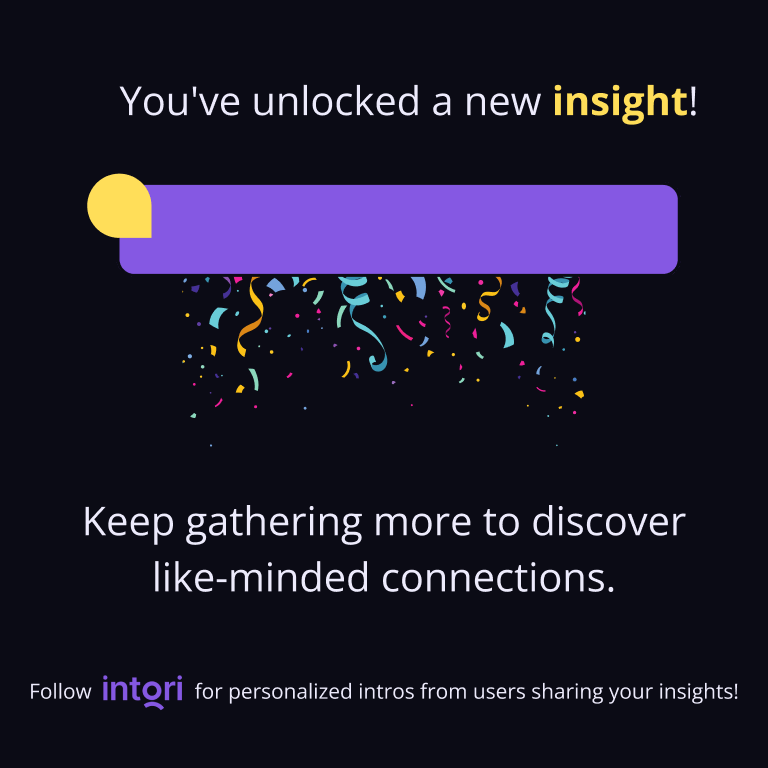
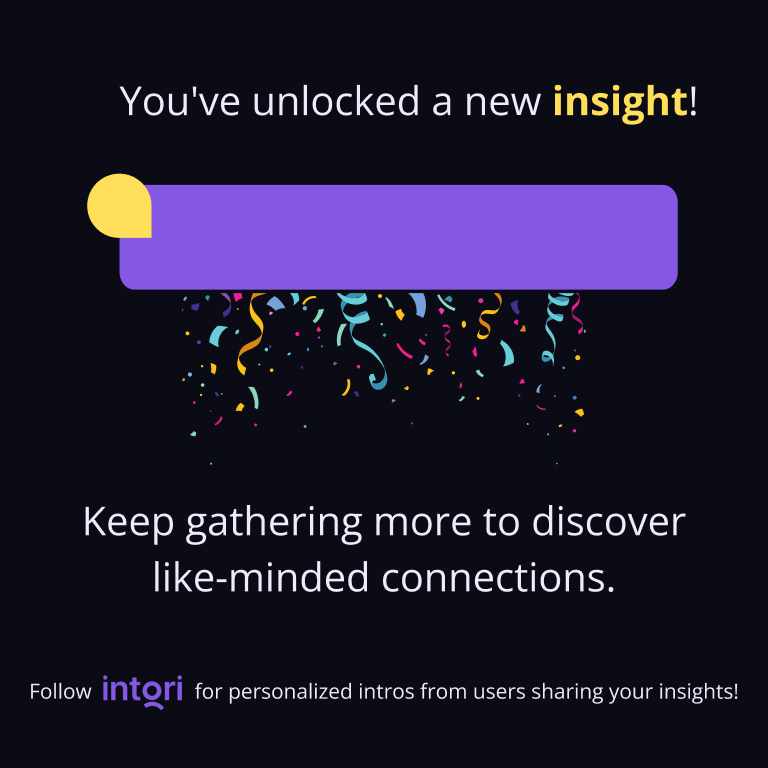
Making text area bigger to prevent overlapping

Changed region(s): [[0.1562, 0.3438, 0.9062, 0.5312]]

diff --git a/utils/frames/createUnlockedInsightFrame.ts b/utils/frames/createUnlockedInsightFrame.ts
@@ -51,7 +51,7 @@ export const createUnlockedInsightFrame = async (params: {
   baseImage.print(
     font21regularWhite,
     161,
-    189,
+    195,
     {
       text: question,
       alignmentX: Jimp.HORIZONTAL_ALIGN_LEFT,
@@ -65,13 +65,13 @@ export const createUnlockedInsightFrame = async (params: {
   baseImage.print(
     font21regularWhite,
     161,
-    239,
+    249,
     {
       text: answer,
       alignmentX: Jimp.HORIZONTAL_ALIGN_RIGHT,
       alignmentY: Jimp.VERTICAL_ALIGN_MIDDLE
     },
-    485,
+    494,
     33
   )
 
